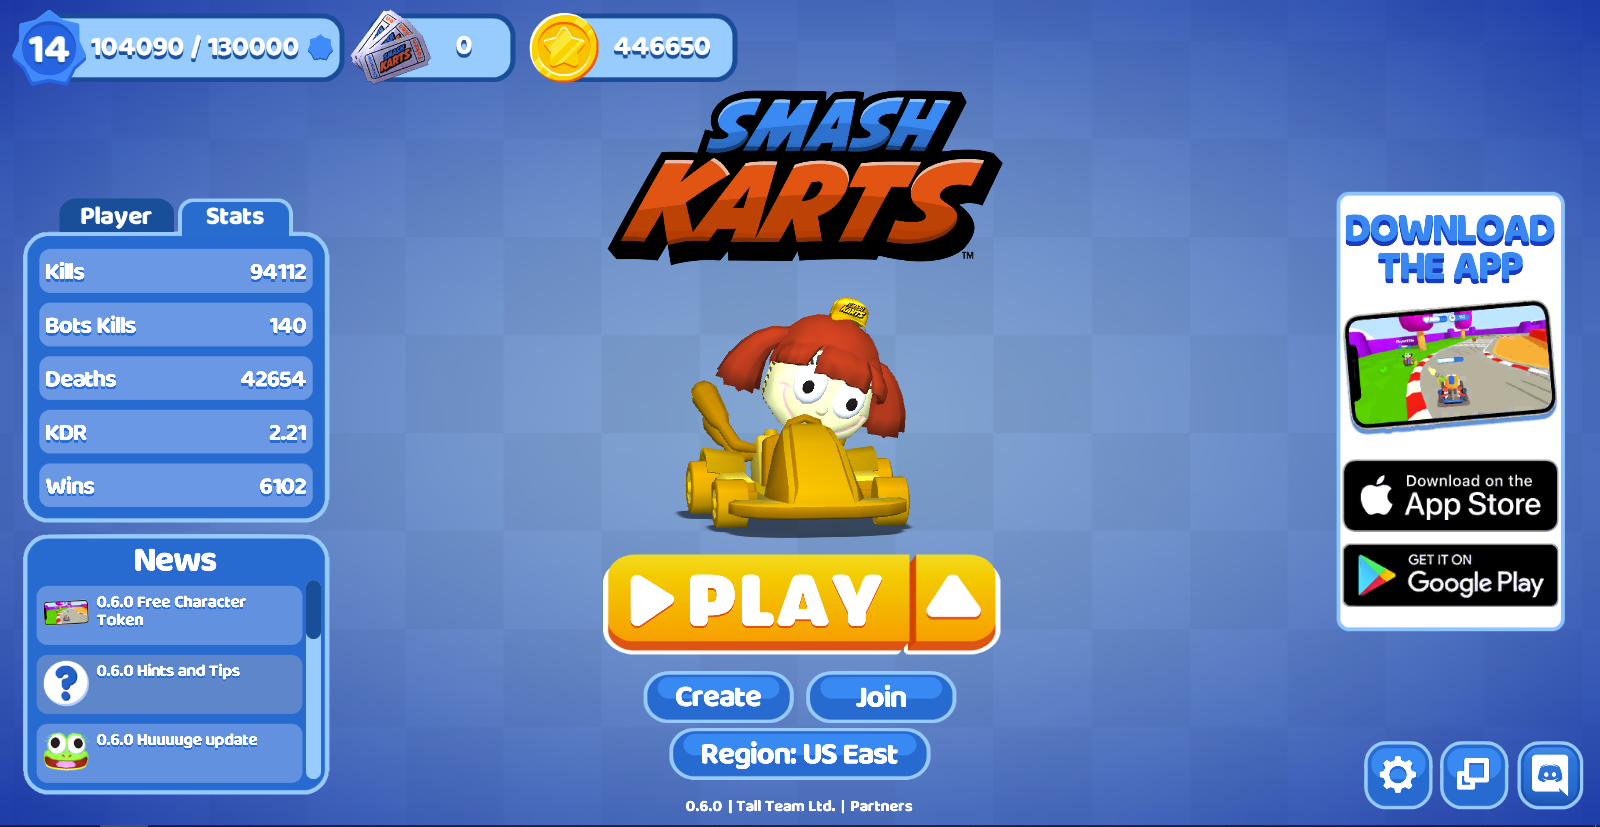
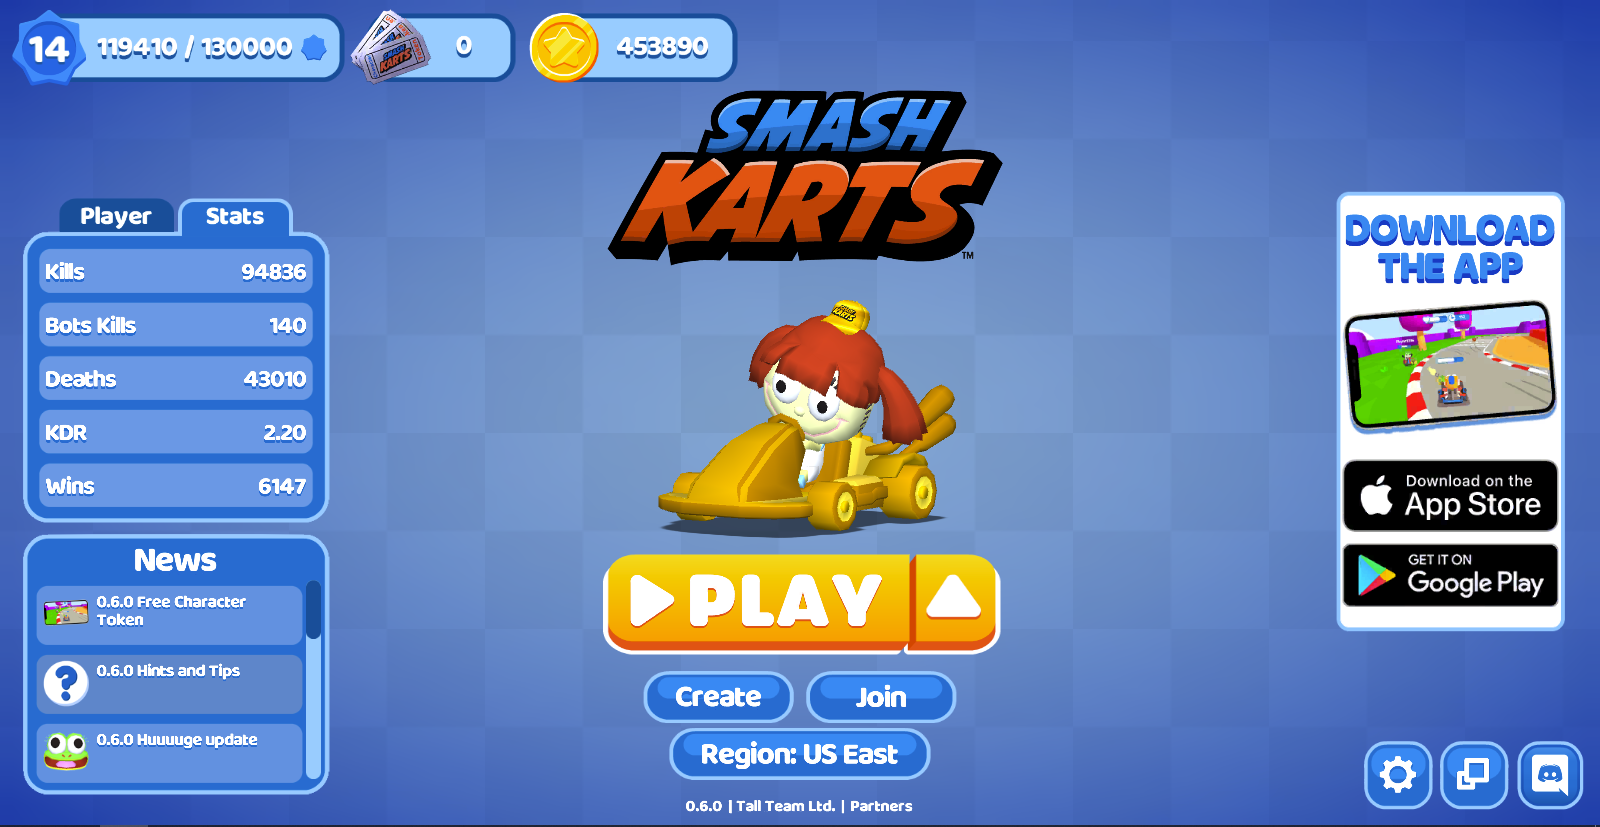
Updated haedcase, OscarTsai, SomeBoyPlayz, The Cubing Wolflyn, xzjkdjkn

diff --git a/playerList.js b/playerList.js
@@ -173,7 +173,7 @@ let player = [
      7,
      '5.25.2021'],
     ['blesses45.png',
-     'blesses45' + newPlayer,
+     'blesses45',
      185,
      2411,
      291,
@@ -308,7 +308,7 @@ let player = [
      '',
      ''],
     ['ElJulen.png',
-     'ElJulen' + newPlayer,
+     'ElJulen',
      22,
      353,
      3,
@@ -435,13 +435,13 @@ let player = [
      '5.21.2021'],
     ['haedcase.png',
      'haedcase',
-     6102,
-     94112,
+     6147,
+     94836,
      140,
-     42654,
-     '2.21',
+     43010,
+     '2.20',
      14,
-     '5.25.2021'],
+     '5.29.2021'],
     ['Hello.png',
      'Hello',
      48,
@@ -777,13 +777,13 @@ let player = [
      '5.14.2021'],
     ['OscarTsai.png',
      'OscarTsai',
-     505,
-     9863,
+     514,
+     9954,
      589,
-     4772,
+     4814,
      '2.07',
      8,
-     '5.25.2021'],
+     '5.29.2021'],
     ['Ositos920.png',
      'Ositos920',
      54,
@@ -1001,7 +1001,7 @@ let player = [
      '',
      ''],
     ['SirBotsAlot2.png',
-     'SirBotsAlot' + newPlayer,
+     'SirBotsAlot',
      502,
      5209,
      702,
@@ -1028,7 +1028,7 @@ let player = [
      9,
      '5.17.2021'],
     ['SMASH BOI.png',
-     'SMASH BOI' + newPlayer,
+     'SMASH BOI',
      545,
      7928,
      298,
@@ -1092,13 +1092,13 @@ let player = [
      ''],
     ['SomeBoyPlayz.png',
      'SomeBoyPlayz',
-     2250,
-     32752,
-     1236,
-     19527,
-     '1.68',
+     2308,
+     33572,
+     1247,
+     19904,
+     '1.69',
      16,
-     '5.24.2021'],
+     '5.29.2021'],
     ['SONICTHEDOGE.png',
      'SONICTHEDOGE',
      5,
@@ -1164,13 +1164,13 @@ let player = [
      ''],
     ['The Cubing Wolflyn.png',
      'The Cubing Wolflyn',
-     68,
-     871,
-     102,
-     532,
-     '1.64',
-     '',
-     '5.27.2021'],
+     73,
+     1042,
+     125,
+     657,
+     '1.59',
+     10,
+     '5.29.2021'],
     ['The Demon.png',
      'The Demon',
      57,
@@ -1244,7 +1244,7 @@ let player = [
      '',
      '5.17.2021'],
     ['WorstDriver.png',
-     'WorstDriver' + newPlayer,
+     'WorstDriver',
      198,
      3109,
      62,
@@ -1263,13 +1263,13 @@ let player = [
      '5.27.2021'],
     ['xzjkdjkn.png',
      'xzjkdjkn',
-     1192,
-     14729,
+     1210,
+     15016,
      538,
-     6609,
-     '2.23',
+     6765,
+     '2.22',
      11,
-     '5.27.2021'],
+     '5.29.2021'],
      ['YOURSELF.png',
      'YOURSELF',
      231,
